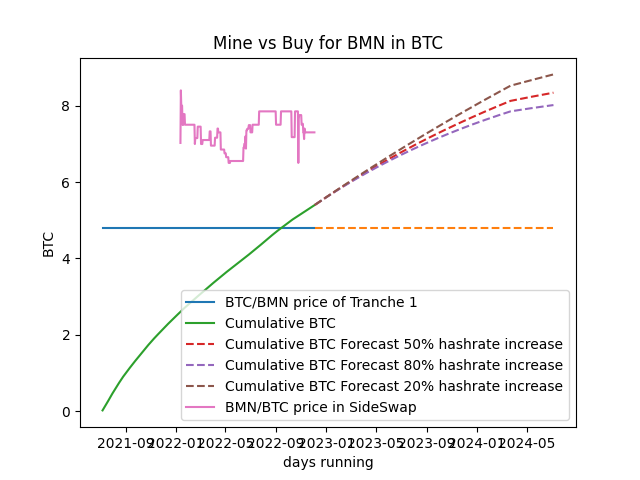
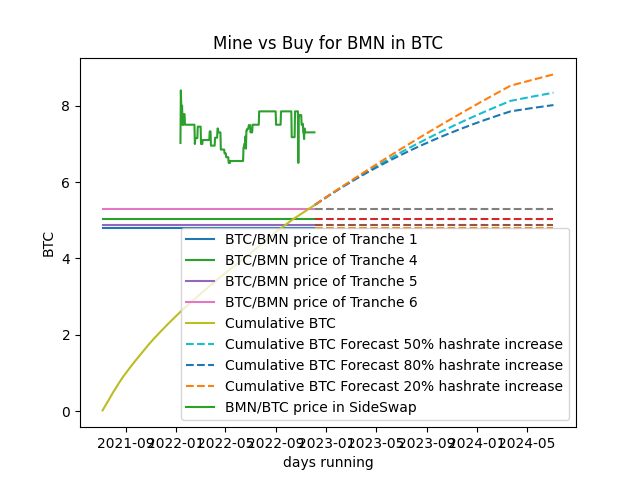
fixed BMNUSD charts, now with actual USD equivalent on the date of tranche issuance

diff --git a/frikada3.py b/frikada3.py
@@ -16,6 +16,15 @@ else:
 
 idActual = df2['id'].iloc[-1]
 idBMNfinal = desde + (3 * 365)
+idTranche1 = 4471
+idTranche2 = 4542
+idTranche3 = 4634
+idTranche4 = 4661
+idTranche5 = 4665
+idTranche6 = 4667
+idTranche7 = 4690
+idTranche8 = 4756
+
 
 def addRows(bmn, ppio, fin, tasa, df2):
     if bmn == "bmnsi":
@@ -65,14 +74,14 @@ def addMoreRows(df3):
     df3['buy6']= preciosTrancheBTC[5]
     df3['buy7']= preciosTrancheBTC[6]
     df3['buy8']= preciosTrancheBTC[7]
-    df3['buy1USD'] = df3['bitcoin_price'].multiply(preciosTrancheUSDenBTC[0])
-    df3['buy2USD'] = df3['bitcoin_price'].multiply(preciosTrancheUSDenBTC[1])
-    df3['buy3USD'] = df3['bitcoin_price'].multiply(preciosTrancheUSDenBTC[2])
-    df3['buy4USD'] = df3['bitcoin_price'].multiply(preciosTrancheUSDenBTC[3])
-    df3['buy5USD'] = df3['bitcoin_price'].multiply(preciosTrancheUSDenBTC[4])
-    df3['buy6USD'] = df3['bitcoin_price'].multiply(preciosTrancheUSDenBTC[5])
-    df3['buy7USD'] = df3['bitcoin_price'].multiply(preciosTrancheUSDenBTC[6])
-    df3['buy8USD'] = df3['bitcoin_price'].multiply(preciosTrancheUSDenBTC[7])
+    df3['buy1USD'] = df3['bitcoin_price'][idTranche1:].multiply(preciosTrancheUSDenBTC[0])
+    df3['buy2USD'] = df3['bitcoin_price'][idTranche2:].multiply(preciosTrancheUSDenBTC[1])
+    df3['buy3USD'] = df3['bitcoin_price'][idTranche3:].multiply(preciosTrancheUSDenBTC[2])
+    df3['buy4USD'] = df3['bitcoin_price'][idTranche4:].multiply(preciosTrancheUSDenBTC[3])
+    df3['buy5USD'] = df3['bitcoin_price'][idTranche5:].multiply(preciosTrancheUSDenBTC[4])
+    df3['buy6USD'] = df3['bitcoin_price'][idTranche6:].multiply(preciosTrancheUSDenBTC[5])
+    df3['buy7USD'] = df3['bitcoin_price'][idTranche7:].multiply(preciosTrancheUSDenBTC[6])
+    df3['buy8USD'] = df3['bitcoin_price'][idTranche8:].multiply(preciosTrancheUSDenBTC[7])
     return df3
 
 df4 = addMoreRows(df3)
@@ -81,7 +90,7 @@ print(df4[['id', 'date', 'NetworkHR', 'NetworkHRPos', 'NetworkHRNeg', 'bitcoins/
 print(df4[['id', 'date', 'NetworkHR', 'NetworkHRPos', 'NetworkHRNeg', 'bitcoins/day', 'bitcoin_price', 'mined', 'minedP', 'minedN', 'accMined', 'accMinedP', 'accMinedN']][idBMNfinal - 10:idBMNfinal+3])
 print(df4[['id', 'date', 'NetworkHR', 'NetworkHRPos', 'NetworkHRNeg', 'bitcoins/day', 'bitcoin_price', 'mined', 'minedP', 'minedN', 'accMined', 'accMinedP', 'accMinedN']][-10:])
 print(df4[['id', 'date', 'NetworkHR', 'NetworkHRPos', 'NetworkHRNeg', 'bitcoins/day', 'bitcoin_price', 'mined', 'minedP', 'minedN', 'accMined', 'accMinedP', 'accMinedN']][idActual - 10:idActual+40])
-
+print(df4[['id', 'date', 'bitcoin_price', 'accMined', 'buy1USD']][4530:4570])
 def chartIt(idBMNfinal):
     x1 = df4['date'][idInicial:idActual]
     x2 = df4['date'][idActual:idBMNfinal]
@@ -89,6 +98,12 @@ def chartIt(idBMNfinal):
     actuals, forecast = x1 <= now, x1 > now
     y1 = df4['buy1'][idInicial:idActual]
     y12 = df4['buy1'][idActual:idBMNfinal]
+    y13 = df4['buy4'][idInicial:idActual]
+    y14 = df4['buy4'][idActual:idBMNfinal]
+    y15 = df4['buy5'][idInicial:idActual]
+    y16 = df4['buy5'][idActual:idBMNfinal]
+    y17 = df4['buy6'][idInicial:idActual]
+    y18 = df4['buy6'][idActual:idBMNfinal]
     y2 = df4['accMined'][idInicial:idActual]
     y22 = df4['accMined'][idActual:idBMNfinal]
     y3 = df4['accMinedP'][idActual:idBMNfinal]
@@ -96,6 +111,12 @@ def chartIt(idBMNfinal):
     y5 = df4['BMN price'][idBMNInicial:idActual]
     plt.plot(x1, y1, '-', label='BTC/BMN price of Tranche 1')
     plt.plot(x2, y12, '--')
+    plt.plot(x1, y13, '-', label='BTC/BMN price of Tranche 4')
+    plt.plot(x2, y14, '--')
+    plt.plot(x1, y15, '-', label='BTC/BMN price of Tranche 5')
+    plt.plot(x2, y16, '--')
+    plt.plot(x1, y17, '-', label='BTC/BMN price of Tranche 6')
+    plt.plot(x2, y18, '--')
     plt.plot(x1, y2, '-', label='Cumulative BTC')
     plt.plot(x2, y22, '--', label='Cumulative BTC Forecast '+str(tasaCentral)+'% hashrate increase')
     plt.plot(x2, y3, '--', label='Cumulative BTC Forecast '+str(tasaPositiva)+'% hashrate increase')
@@ -116,13 +137,25 @@ def chartIt2(idBMNfinal):
     actuals, forecast = x1 <= now, x1 > now
     y1 = df4['buy1USD'][idInicial:idActual]
     y12 = df4['buy1USD'][idActual:idBMNfinal]
+    y13 = df4['buy4USD'][idInicial:idActual]
+    y14 = df4['buy4USD'][idActual:idBMNfinal]
+    y15 = df4['buy5USD'][idInicial:idActual]
+    y16 = df4['buy5USD'][idActual:idBMNfinal]
+    y17 = df4['buy6USD'][idInicial:idActual]
+    y18 = df4['buy6USD'][idActual:idBMNfinal]
     y2 = df4['accMined'][idInicial:idActual] * df4['bitcoin_price'][idInicial:idActual]
     y22 = df4['accMined'][idActual:idBMNfinal] * df4['bitcoin_price'][idActual:idBMNfinal]
     y3 = df4['accMinedP'][idActual:idBMNfinal] * df4['bitcoin_price'][idActual:idBMNfinal]
     y4 = df4['accMinedN'][idActual:idBMNfinal] * df4['bitcoin_price'][idActual:idBMNfinal]
-    y5 = df4['BMN price'][idBMNInicial:idActual] * df4['bitcoin_price'][idActual:idBMNfinal]
+    y5 = df4['BMN price'][idBMNInicial:idActual] * df4['bitcoin_price'][idBMNInicial:idActual]
     plt.plot(x1, y1, '-', label='BMN/USD price of Tranche 1')
     plt.plot(x2, y12, '--')
+    plt.plot(x1, y13, '-', label='BMN/USD price of Tranche 4')
+    plt.plot(x2, y14, '--')
+    plt.plot(x1, y15, '-', label='BMN/USD price of Tranche 5')
+    plt.plot(x2, y16, '--')
+    plt.plot(x1, y17, '-', label='BMN/USD price of Tranche 6')
+    plt.plot(x2, y18, '--')
     plt.plot(x1, y2, '-', label='Cumulative USD')
     plt.plot(x2, y22, '--', label='Cumulative USD Forecast '+str(tasaCentral)+'% price&hashrate increases')
     plt.plot(x2, y3, '--', label='Cumulative USD Forecast '+str(tasaPositiva)+'% price&hashrate increases')

diff --git a/datos.py b/datos.py
@@ -8,7 +8,6 @@ def extraerDatos(que):
     excel_file = pd.ExcelFile(que)
     pd.set_option('display.float_format', lambda x: '%0.4f' % x)
     df2 = excel_file.parse('NetworkHR')
-    # df2 = df2.drop(df2.columns[[7, 8, 9, 10, 11, 12, 13, 14]], axis=1)
     df2.fillna(value=0, inplace=True)
     return df2
 
